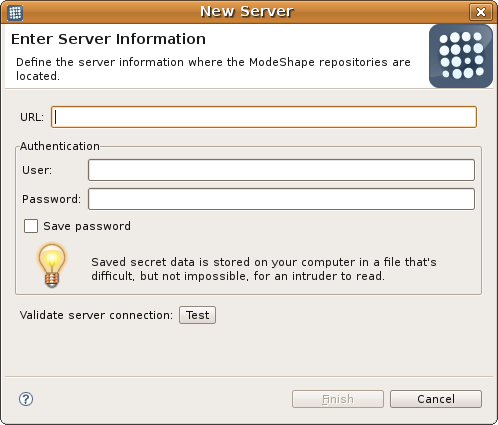
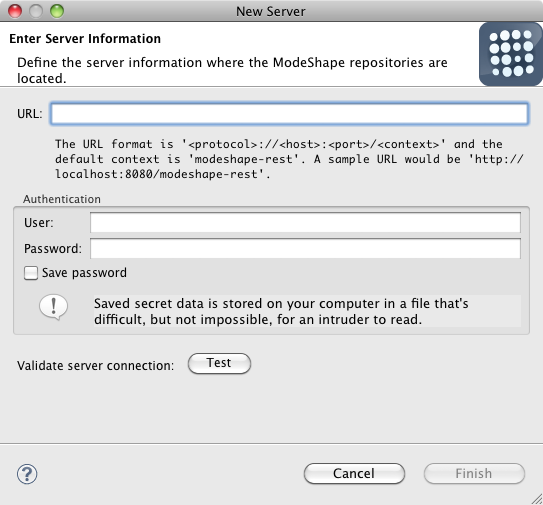
JBIDE-7465 Error because the Server URL was setup incorrectly. Added a label to ServerPage that gives the URL format and an example URL. Changed the screen image of ServerPage in the documentation.
git-svn-id: http://svn.jboss.org/repos/jbosstools/trunk@26194 a97e2381-89e5-4abb-bab3-167db6db766c

Changed region(s): [[0.0, 0.0, 1.0, 1.0], [0.4518, 0.7035, 0.4819, 0.7341]]

diff --git a/modeshape/plugins/org.jboss.tools.modeshape.rest/src/org/jboss/tools/modeshape/rest/wizards/ServerPage.java b/modeshape/plugins/org.jboss.tools.modeshape.rest/src/org/jboss/tools/modeshape/rest/wizards/ServerPage.java
@@ -11,10 +11,12 @@
  */
 package org.jboss.tools.modeshape.rest.wizards;
 
+import static org.jboss.tools.modeshape.rest.IUiConstants.BLANK_IMAGE;
 import static org.jboss.tools.modeshape.rest.IUiConstants.SERVER_DIALOG_HELP_CONTEXT;
 import org.eclipse.jface.dialogs.IDialogConstants;
 import org.eclipse.jface.dialogs.IMessageProvider;
 import org.eclipse.jface.dialogs.MessageDialog;
+import org.eclipse.jface.resource.JFaceResources;
 import org.eclipse.jface.wizard.WizardPage;
 import org.eclipse.swt.SWT;
 import org.eclipse.swt.custom.BusyIndicator;
@@ -301,6 +303,24 @@ public final class ServerPage extends WizardPage {
                 handleUrlModified(((Text)e.widget).getText());
             }
         });
+
+        // add a blank image to push text over a bit
+        Label lblImage = new Label(pnl, SWT.NONE);
+        lblImage.setLayoutData(new GridData(SWT.CENTER, SWT.CENTER, false, false));
+        lblImage.setImage(Activator.getDefault().getImage(BLANK_IMAGE));
+
+        // add the text on the URL format
+        StyledText st = new StyledText(pnl, SWT.READ_ONLY | SWT.MULTI | SWT.NO_FOCUS | SWT.WRAP);
+        st.setText(RestClientI18n.serverPageUrlTemplateLabel.text());
+        st.setBackground(Display.getDefault().getSystemColor(SWT.COLOR_WIDGET_BACKGROUND));
+        st.setFont(JFaceResources.getTextFont());
+        st.setCaret(null);
+        GridData gd = new GridData(SWT.FILL, SWT.CENTER, true, true);
+        gd.grabExcessVerticalSpace = false;
+        gd.horizontalIndent = 4;
+        gd.verticalIndent = 8;
+        gd.widthHint = 150;
+        st.setLayoutData(gd);
     }
 
     /**

diff --git a/modeshape/plugins/org.jboss.tools.modeshape.rest/src/org/jboss/tools/modeshape/rest/RestClientI18n.java b/modeshape/plugins/org.jboss.tools.modeshape.rest/src/org/jboss/tools/modeshape/rest/RestClientI18n.java
@@ -167,6 +167,7 @@ public final class RestClientI18n {
     public static I18n serverPageTestConnectionDialogSuccessMsg;
     public static I18n serverPageTitle;
     public static I18n serverPageUrlLabel;
+    public static I18n serverPageUrlTemplateLabel;
     public static I18n serverPageUrlToolTip;
     public static I18n serverPageUserLabel;
     public static I18n serverPageUserToolTip;
